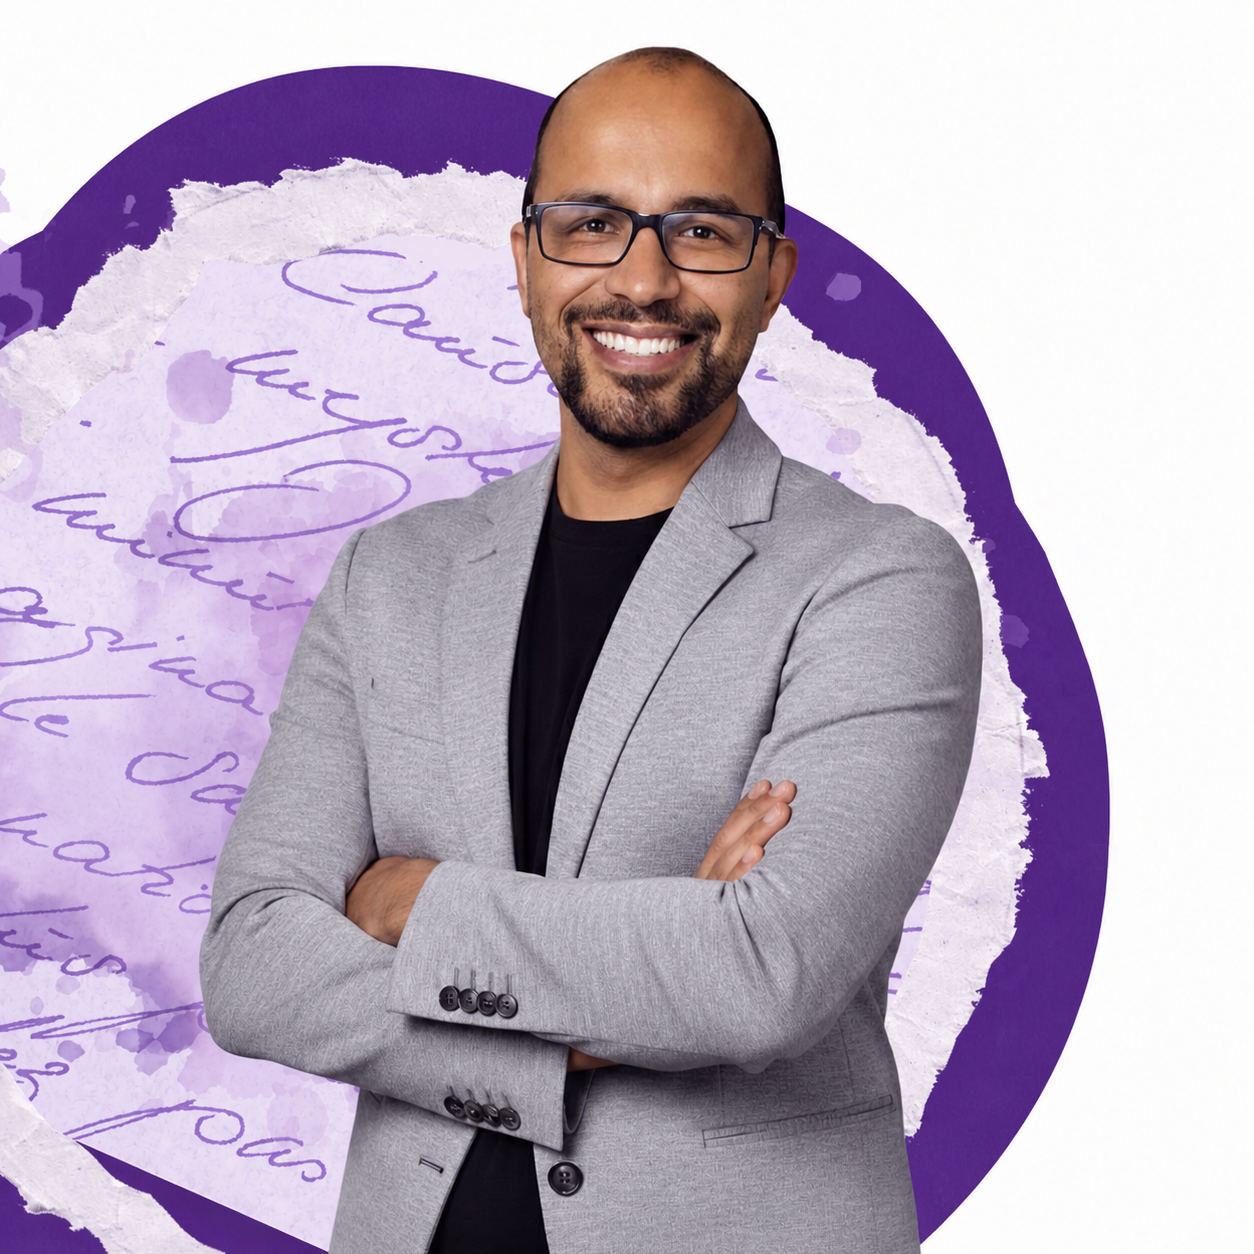
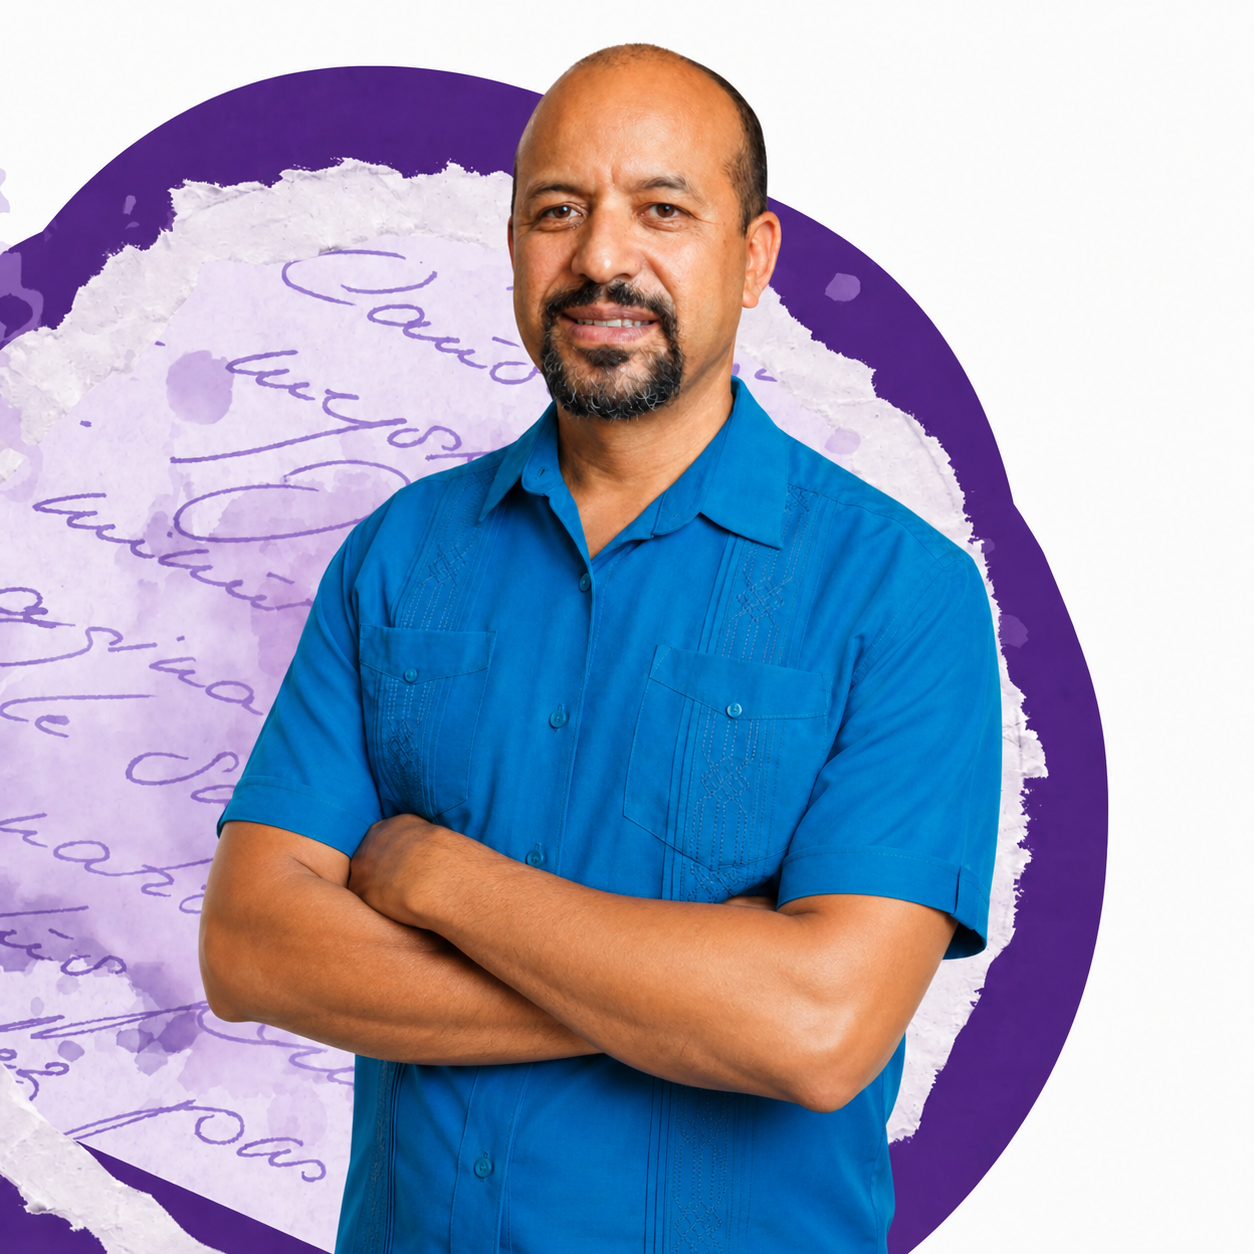
feat(pos): atualiza assets otimizados e adiciona documentacao do ticket

diff --git a/ATUALIZACOES-TICKET-REGISTRO-DOCUMENTACAO.md b/ATUALIZACOES-TICKET-REGISTRO-DOCUMENTACAO.md
@@ -1,0 +1,76 @@
+# Atualizações — Landing Page Registro e Documentação
+
+## Escopo
+
+Atualização das páginas principal e de agradecimento da live **Registro e Documentação Pedagógica**, com foco em arquitetura de informação, identidade visual, imagens, responsividade e experiência de conversão.
+
+## Página principal
+
+- Reorganização da hierarquia e da ordem dos conteúdos conforme a referência aprovada.
+- Revisão do texto do hero, destacando registro pedagógico, reflexão, planejamento e aprendizagem.
+- Inclusão das informações do professor Cristiano Alcântara, transmissão pelo YouTube e certificado.
+- Atualização da seção sobre a live.
+- Revisão da apresentação do professor, formação acadêmica e áreas de atuação.
+- Revisão do público da live e dos objetivos de participação.
+- Atualização dos textos do formulário, incluindo objetivo de participação e chamada para inscrição.
+- Inclusão e exibição do modelo de certificado da Faculdade Phorte.
+
+## Página de agradecimento
+
+- Revisão da mensagem de confirmação da inscrição.
+- Atualização do texto do grupo exclusivo de WhatsApp.
+- Atualização da apresentação do professor e da Faculdade Phorte.
+- Inclusão do vídeo diretamente na página por meio de embed do YouTube.
+- Vídeo com bordas arredondadas, moldura, sombra e comportamento responsivo.
+
+## Identidade visual
+
+- Aplicação da fonte Poppins na interface.
+- Atualização da paleta para tons de roxo, lilás, roxo escuro e fundo quente.
+- Definição dos principais tons utilizados:
+  - Roxo principal: `#A946FF`
+  - Roxo escuro: `#7B24C7`
+  - Texto escuro: `#21182C`
+  - Fundo claro: `#F7EEE8`
+- Ajuste dos CTAs, estados de hover, bordas, destaques e elementos de formulário.
+- Logo oficial da Faculdade Phorte aplicado no rodapé das duas páginas.
+- Logo convertido visualmente para branco para melhorar o contraste sobre o rodapé roxo.
+- Ajuste de tamanho, espaçamento vertical, alinhamento e bordas do rodapé em desktop e mobile.
+
+## Imagens e otimização
+
+- Recriação das imagens utilizadas nas páginas para adequação à nova identidade roxa.
+- Remoção dos fundos das imagens e preservação da transparência.
+- Aplicação das versões corrigidas nas páginas principal e de agradecimento.
+- Conversão das imagens fotográficas para WebP visando desempenho web.
+- Todos os arquivos WebP ficaram abaixo de aproximadamente 200 KB.
+- Os PNGs originais foram mantidos como backup na pasta de referência.
+
+## Fundo das páginas
+
+- Inclusão do fundo de sala de aula fornecido no briefing.
+- Aplicação de camada clara sobre a imagem para não prejudicar a leitura dos textos.
+- Ajuste do comportamento do fundo em desktop e mobile.
+
+## Responsividade e espaçamento
+
+- Ajustes de layout para telas desktop, tablet e celular.
+- Redimensionamento de títulos para evitar quebras excessivas.
+- Ajuste do título da página de agradecimento para ocupar menos linhas.
+- Melhorias no espaçamento dos botões, incluindo altura, padding e distância entre texto e ícone.
+- Ajustes de espaçamento do formulário, rodapé e blocos de conteúdo.
+- Bordas e raios ajustados para melhorar a leitura e a integração visual dos componentes.
+
+## Arquivos principais alterados
+
+- `Pos/registro-e-documentacao/registro-e-documentacao-live/registro-e-documentacao-live.html`
+- `Pos/registro-e-documentacao/registro-e-documentacao-live/styles.css`
+- `Pos/registro-e-documentacao/registro-e-documentacao-agradecimento/registro-e-documentacao-agradecimento.html`
+- `Pos/registro-e-documentacao/registro-e-documentacao-agradecimento/styles.css`
+- Imagens WebP nas pastas `assets` das duas páginas.
+- `FUNDO.jpg` nas duas páginas.
+- `logograduacao-pos-mba.svg` nas duas páginas.
+
+## Observação
+
+As alterações estão aplicadas localmente no projeto e o documento pode ser usado como atualização do ticket.
